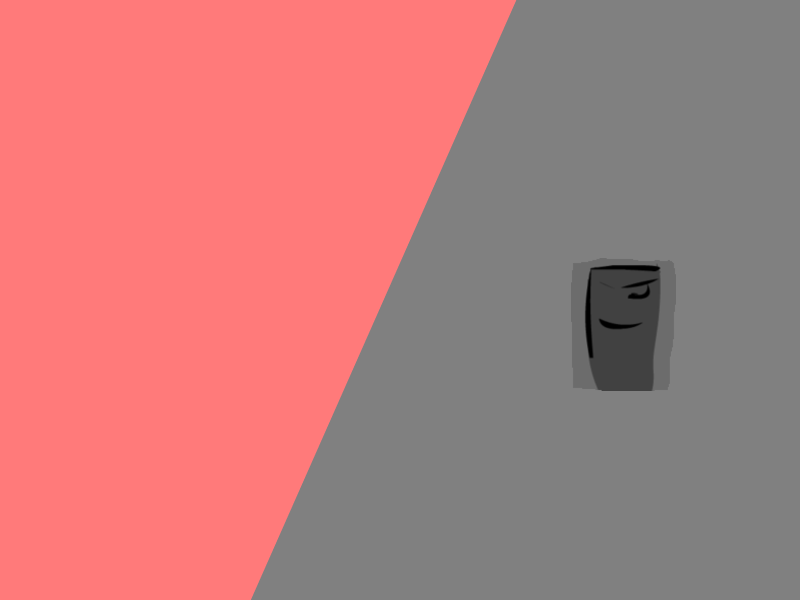
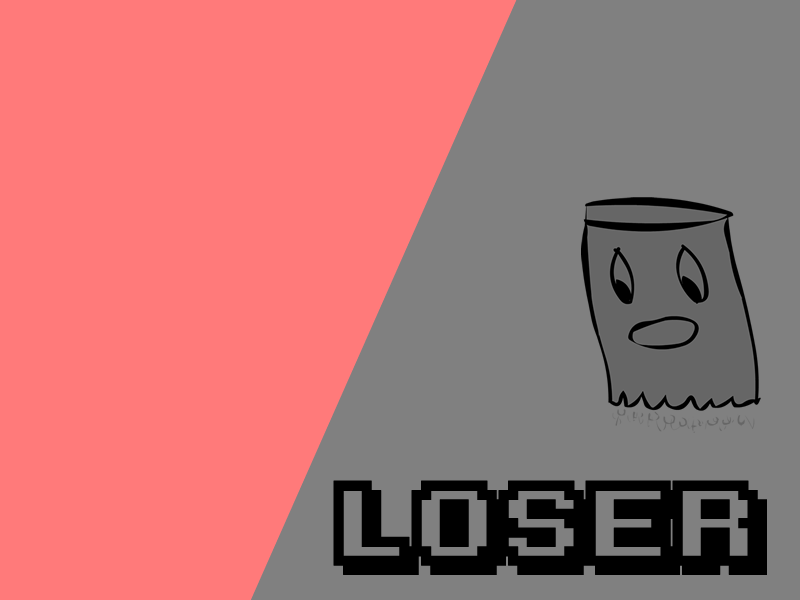
Better screens

Changed region(s): [[0.4062, 0.78, 0.9688, 0.96], [0.7188, 0.33, 0.9688, 0.69]]

diff --git a/KickBox.py b/KickBox.py
@@ -356,6 +356,7 @@ def titleInput(event):
 def drawTitle(screen):
     # TODO: put an image here?
     screen.fill(pygame.Color("white"))
+    screen.blit(images["title"][0], (SCREEN_WIDTH_PX / 2 - 500, 0))
     
     for button in buttons:
         imageName = button[0] + "-" + states[button[1]]
@@ -1792,6 +1793,7 @@ def init():
     images["goal right"] = [pygame.transform.flip(images["goal left"][0], True, False), images["goal left"][1]]
     images["red arrow"] = load_image("red_arrow.png", (255,255,255))
     images["blue arrow"] = load_image("blue_arrow.png", (255,255,255))
+    images["title"] = load_image("title.png")
     
     # Make sure alpha will properly render
     for key in images:

diff --git a/main.py b/main.py
@@ -62,6 +62,7 @@ def init():
     images["goal right"] = [pygame.transform.flip(images["goal left"][0], True, False), images["goal left"][1]]
     images["red arrow"] = load_image("red_arrow.png", (255,255,255))
     images["blue arrow"] = load_image("blue_arrow.png", (255,255,255))
+    images["title"] = load_image("title.png")
     
     # Make sure alpha will properly render
     for key in images:

diff --git a/title.py b/title.py
@@ -75,6 +75,7 @@ def titleInput(event):
 def drawTitle(screen):
     # TODO: put an image here?
     screen.fill(pygame.Color("white"))
+    screen.blit(images["title"][0], (SCREEN_WIDTH_PX / 2 - 500, 0))
     
     for button in buttons:
         imageName = button[0] + "-" + states[button[1]]

diff --git a/exe_setup.py b/exe_setup.py
@@ -116,6 +116,7 @@ setup(windows=[
 # Create the /save folder for inclusion with the installer
 shutil.copytree('img','dist/img')
 shutil.copytree('default','dist/default')
+shutil.copytree('sounds','dist/sounds')
  
 if os.path.exists('dist/tcl'): shutil.rmtree('dist/tcl') 
  
